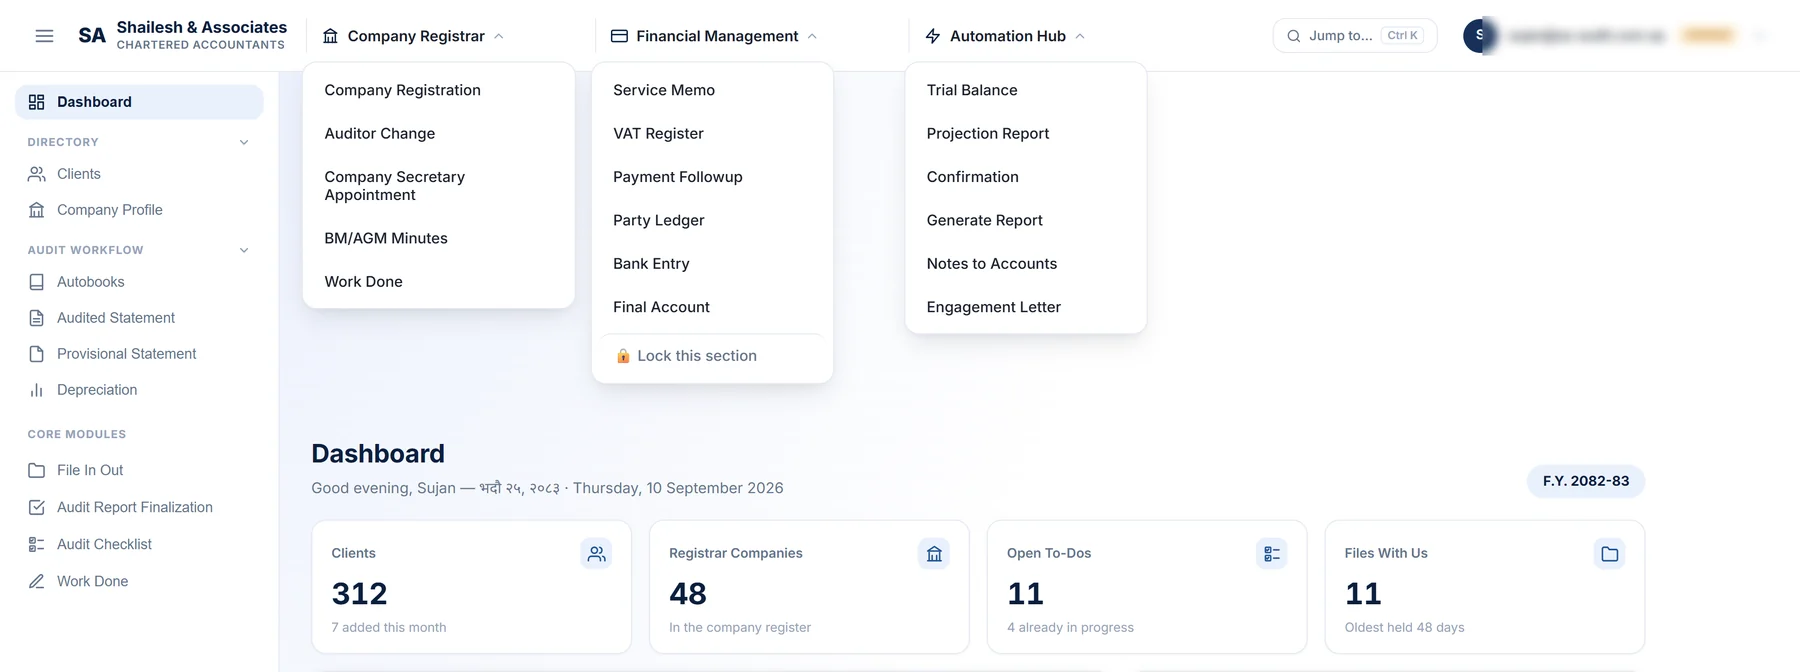
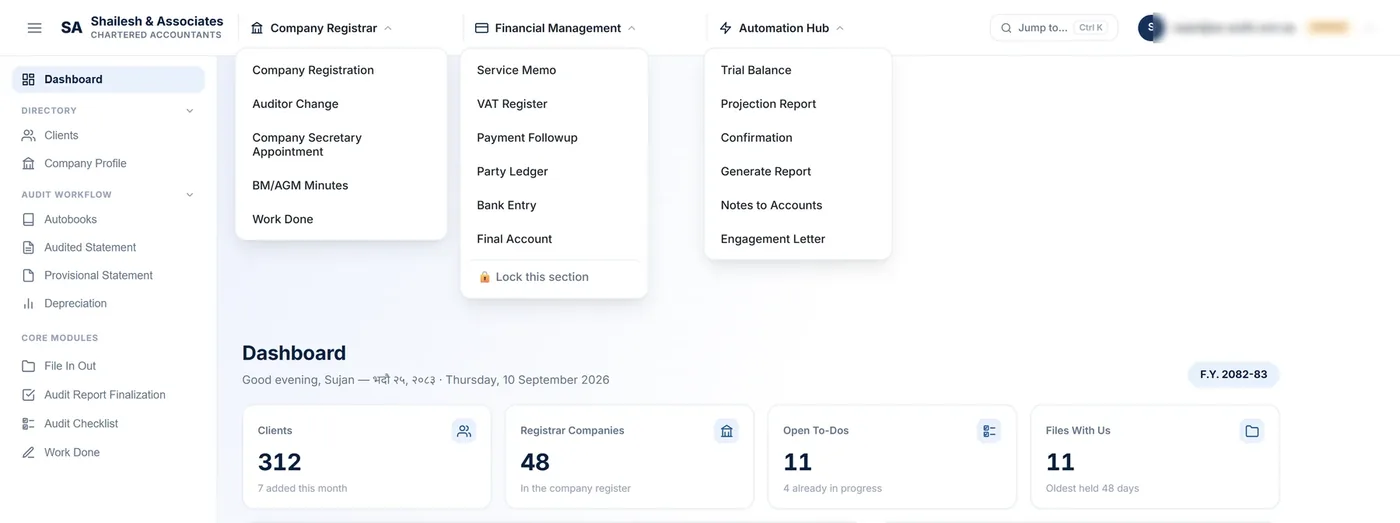
Add Sortly to the work page, right-size web assets
Sortly's own key art carries real detail worth using — every level verified
solvable before it ships, and colour-blind marks on every liquid from level one —
so the game entry no longer needs a placeholder.

Logo assets were roughly ten times their display size (the nav mark renders at
26px from a 360px source). Re-exported at 3x display size: 205KB of images down
to 86KB.

diff --git a/src/app/work/page.tsx b/src/app/work/page.tsx
@@ -1,11 +1,11 @@
 import type { Metadata } from "next";
 import Image from "next/image";
-import { CtaBand, Eyebrow, Rule, Todo, Wrap } from "@/components/ui";
+import { Check, CtaBand, Eyebrow, Rule, Todo, Wrap } from "@/components/ui";
 
 export const metadata: Metadata = {
   title: "Work",
   description:
-    "A workflow application for a chartered accountancy firm, a mobile app for a beauty brand, and a game — all built end to end by Vexora.",
+    "A workflow application for a chartered accountancy firm, a mobile app for a beauty brand, and Sortly — all built end to end by Vexora.",
 };
 
 function Slot({ label, hint }: { label: string; hint?: string }) {
@@ -29,7 +29,7 @@ export default function WorkPage() {
           </h1>
           <p className="text-pretty text-base leading-relaxed text-muted lg:text-lg">
             Three projects, three different problems &mdash; a workflow application for a
-            chartered accountancy firm, a mobile app for a beauty brand, and a game we
+            chartered accountancy firm, a mobile app for a beauty brand, and Sortly, a puzzle game we
             built in&#8209;house. Different industries, different platforms, and every line
             of all three designed and written by us.
           </p>
@@ -121,7 +121,7 @@ export default function WorkPage() {
       <Wrap className="pt-14 lg:pt-[88px]">
         <div className="flex flex-col gap-4">
           <Eyebrow>Also built</Eyebrow>
-          <h2 className="text-[30px] lg:text-[40px]">An app, and a game.</h2>
+          <h2 className="text-[30px] lg:text-[40px]">An app, and a puzzle game.</h2>
         </div>
 
         <div className="mt-8 grid gap-5 lg:mt-10 lg:grid-cols-2">
@@ -151,21 +151,36 @@ export default function WorkPage() {
           </article>
 
           <article className="overflow-hidden rounded-2xl border border-border bg-surface">
-            <Slot label="[THE GAME SCREENSHOT]" hint="A single strong frame beats a collage" />
+            <Image
+              src="/sortly.webp"
+              alt="Sortly — a colour-sorting puzzle game built by Vexora"
+              width={1400}
+              height={788}
+              sizes="(max-width: 1024px) 100vw, 580px"
+              className="block h-auto w-full"
+            />
             <div className="flex flex-col gap-3 p-6 lg:p-7">
               <span className="inline-flex h-[30px] w-fit items-center rounded-full border border-border bg-background-secondary px-3 text-sm font-medium text-muted">
                 Game
               </span>
-              <h3 className="text-2xl">Casual game</h3>
+              <h3 className="text-2xl">Sortly &mdash; pour, sort, unwind</h3>
               <p className="text-sm leading-relaxed text-muted">
-                Built in&#8209;house for mobile and browser. This is where we learned to care
-                about frame times, input latency and the difference between an interface
-                that works and one that feels quick &mdash; habits that carry straight into
-                the client work.
+                A colour&#8209;sorting puzzle built in&#8209;house. Every level is verified
+                solvable before it ships &mdash; proven, not promised &mdash; and every
+                liquid carries a colour&#8209;blind mark from level one, so the game is
+                playable without relying on hue at all.
               </p>
-              <p className="text-sm">
-                <Todo>[NAME THE GAME AND THE PLATFORM IT RUNS ON]</Todo>
-              </p>
+              <ul className="flex flex-col gap-2">
+                {["Every puzzle solvable — proven, not promised",
+                  "Colour-blind marks on every liquid, from level one",
+                  "Eight themes and five kinds of glass",
+                  "No timer, no pressure, plays offline"].map((f) => (
+                  <li key={f} className="flex items-start gap-2.5 text-sm leading-relaxed text-muted">
+                    <Check className="mt-0.5" />
+                    {f}
+                  </li>
+                ))}
+              </ul>
             </div>
           </article>
         </div>

diff --git a/src/lib/site.ts b/src/lib/site.ts
@@ -142,7 +142,7 @@ export const services = [
     n: "04",
     title: "Games & interactive",
     tagline: "Casual games, and interactive work that isn't a game.",
-    body: "Games are where we learned to care about frame times, input latency and release pipelines — and that discipline shows up in everything else we build.",
+    body: "Sortly, our own colour-sorting puzzle, is where we learned to care about frame times, input latency and solvability guarantees — and that discipline shows up in everything else we build.",
     includes: [
       "Browser and mobile builds",
       "Unity or web-native, whichever suits the piece",
